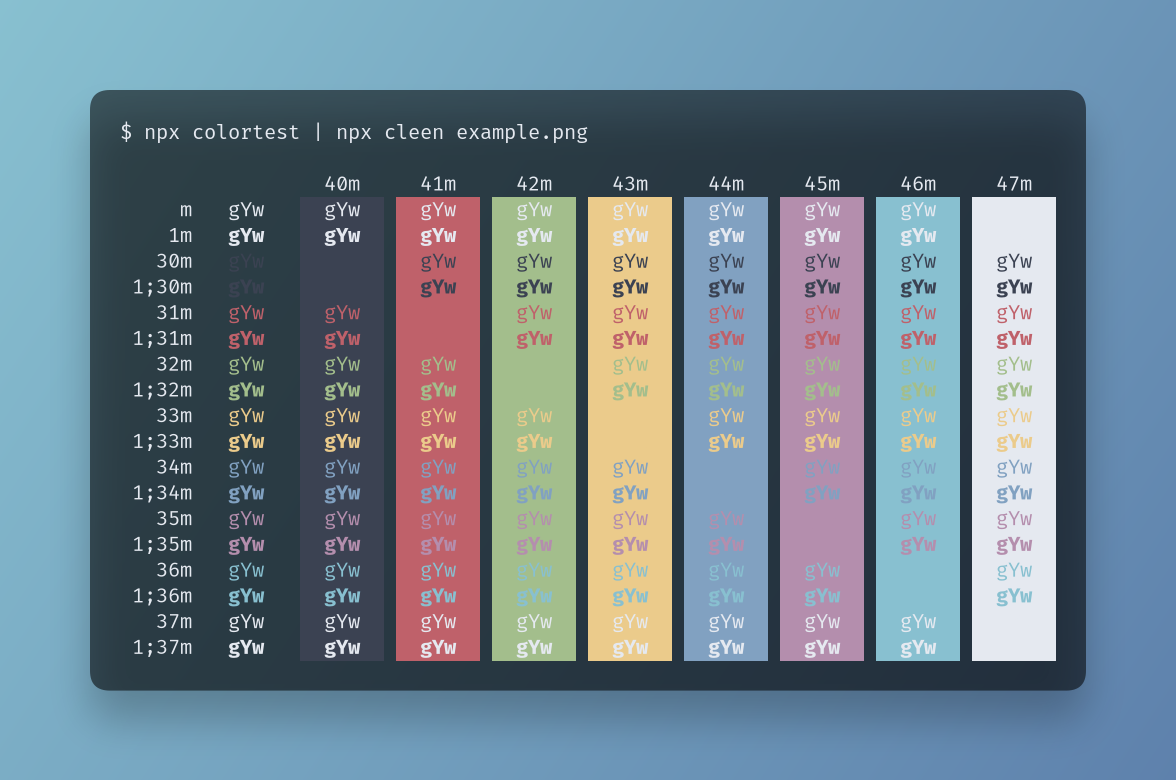
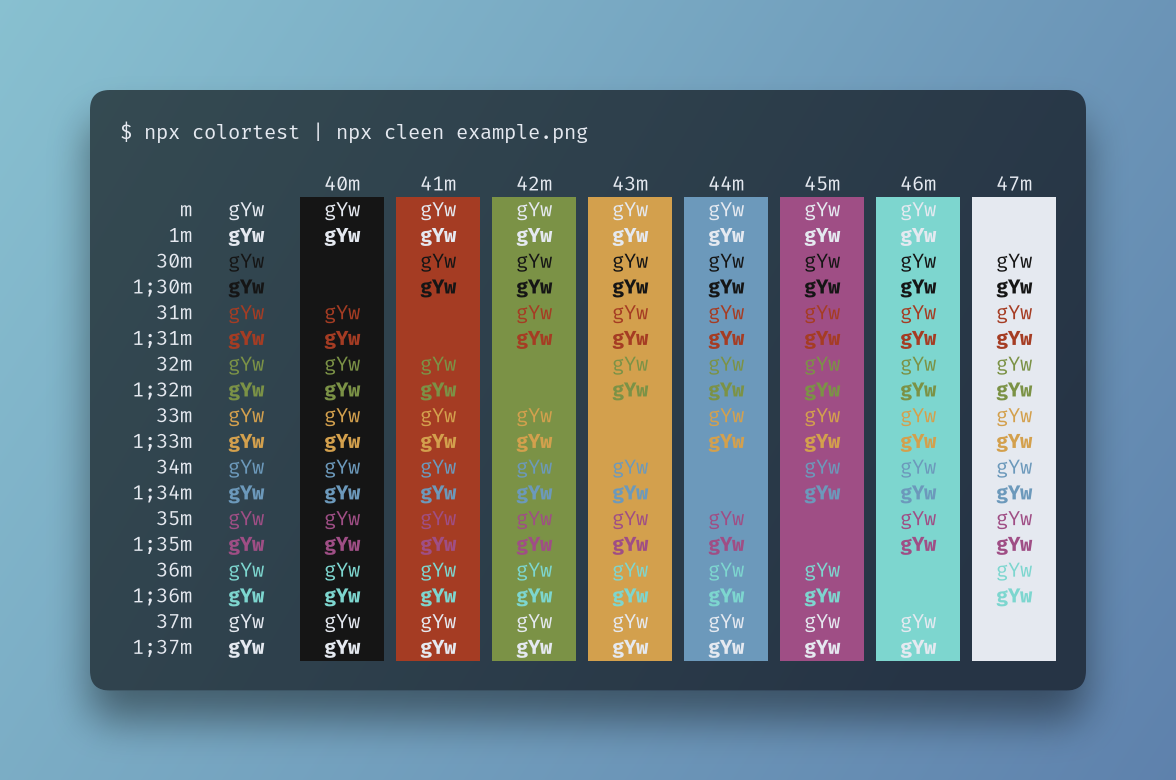
Tweaked the look

diff --git a/index.js b/index.js
@@ -12,13 +12,13 @@ if (!argv._[0]) {
 }
 
 const palette = {
-  black: "#3b4252",
-  red: "#bf616a",
-  green: "#a3be8c",
-  yellow: "#ebcb8b",
-  blue: "#81a1c1",
-  magenta: "#b48ead",
-  cyan: "#88c0d0",
+  black: "#151515",
+  red: "#a53c23",
+  green: "#7b9246",
+  yellow: "#d3a04d",
+  blue: "#6c99bb",
+  magenta: "#9f4e85",
+  cyan: "#7dd6cf",
   white: "#e5e9f0",
 };
 
@@ -45,6 +45,14 @@ const terminalVerticalMargin = 30;
 const terminalBorderRadius = 20;
 const backgroundHorizontalMargin = 90;
 const backgroundVerticalMargin = 90;
+
+const backgroundGradient = (context, width, height) => {
+  const gradient = context.createLinearGradient(0, 0, width, height);
+  gradient.addColorStop(0, "#88c0d0");
+  gradient.addColorStop(1, "#5e81ac");
+
+  return gradient;
+};
 
 const modifier = (context, modifier) => {
   const parsedModifiers = modifier.match(/(\d+;?)+/);
@@ -115,9 +123,7 @@ const modifier = (context, modifier) => {
 };
 
 const background = (context, width, height) => {
-  const gradient = context.createLinearGradient(0, 0, width, height);
-  gradient.addColorStop(0, "#88c0d0");
-  gradient.addColorStop(1, "#5e81ac");
+  const gradient = backgroundGradient(context, width, height);
 
   context.fillStyle = gradient;
   context.fillRect(0, 0, width, height);
@@ -125,12 +131,37 @@ const background = (context, width, height) => {
 
 const terminal = (context, x, y, width, height) => {
   context.save();
-  context.fillStyle = "#000000";
-  context.globalAlpha = 0.55;
 
   context.shadowColor = "rgba(0, 0, 0, .45)";
   context.shadowOffsetY = 30;
   context.shadowBlur = 35;
+
+  const gradient = backgroundGradient(context, width, height);
+  context.fillStyle = gradient;
+
+  context.beginPath();
+  context.moveTo(x + terminalBorderRadius, y);
+  context.lineTo(x + width - terminalBorderRadius, y);
+  context.quadraticCurveTo(x + width, y, x + width, y + terminalBorderRadius);
+  context.lineTo(x + width, y + height - terminalBorderRadius);
+  context.quadraticCurveTo(
+    x + width,
+    y + height,
+    x + width - terminalBorderRadius,
+    y + height
+  );
+  context.lineTo(x + terminalBorderRadius, y + height);
+  context.quadraticCurveTo(x, y + height, x, y + height - terminalBorderRadius);
+  context.lineTo(x, y + terminalBorderRadius);
+  context.quadraticCurveTo(x, y, x + terminalBorderRadius, y);
+  context.closePath();
+  context.fill();
+
+  context.restore();
+  context.save();
+
+  context.fillStyle = "#000000";
+  context.globalAlpha = 0.6;
 
   context.beginPath();
   context.moveTo(x + terminalBorderRadius, y);
